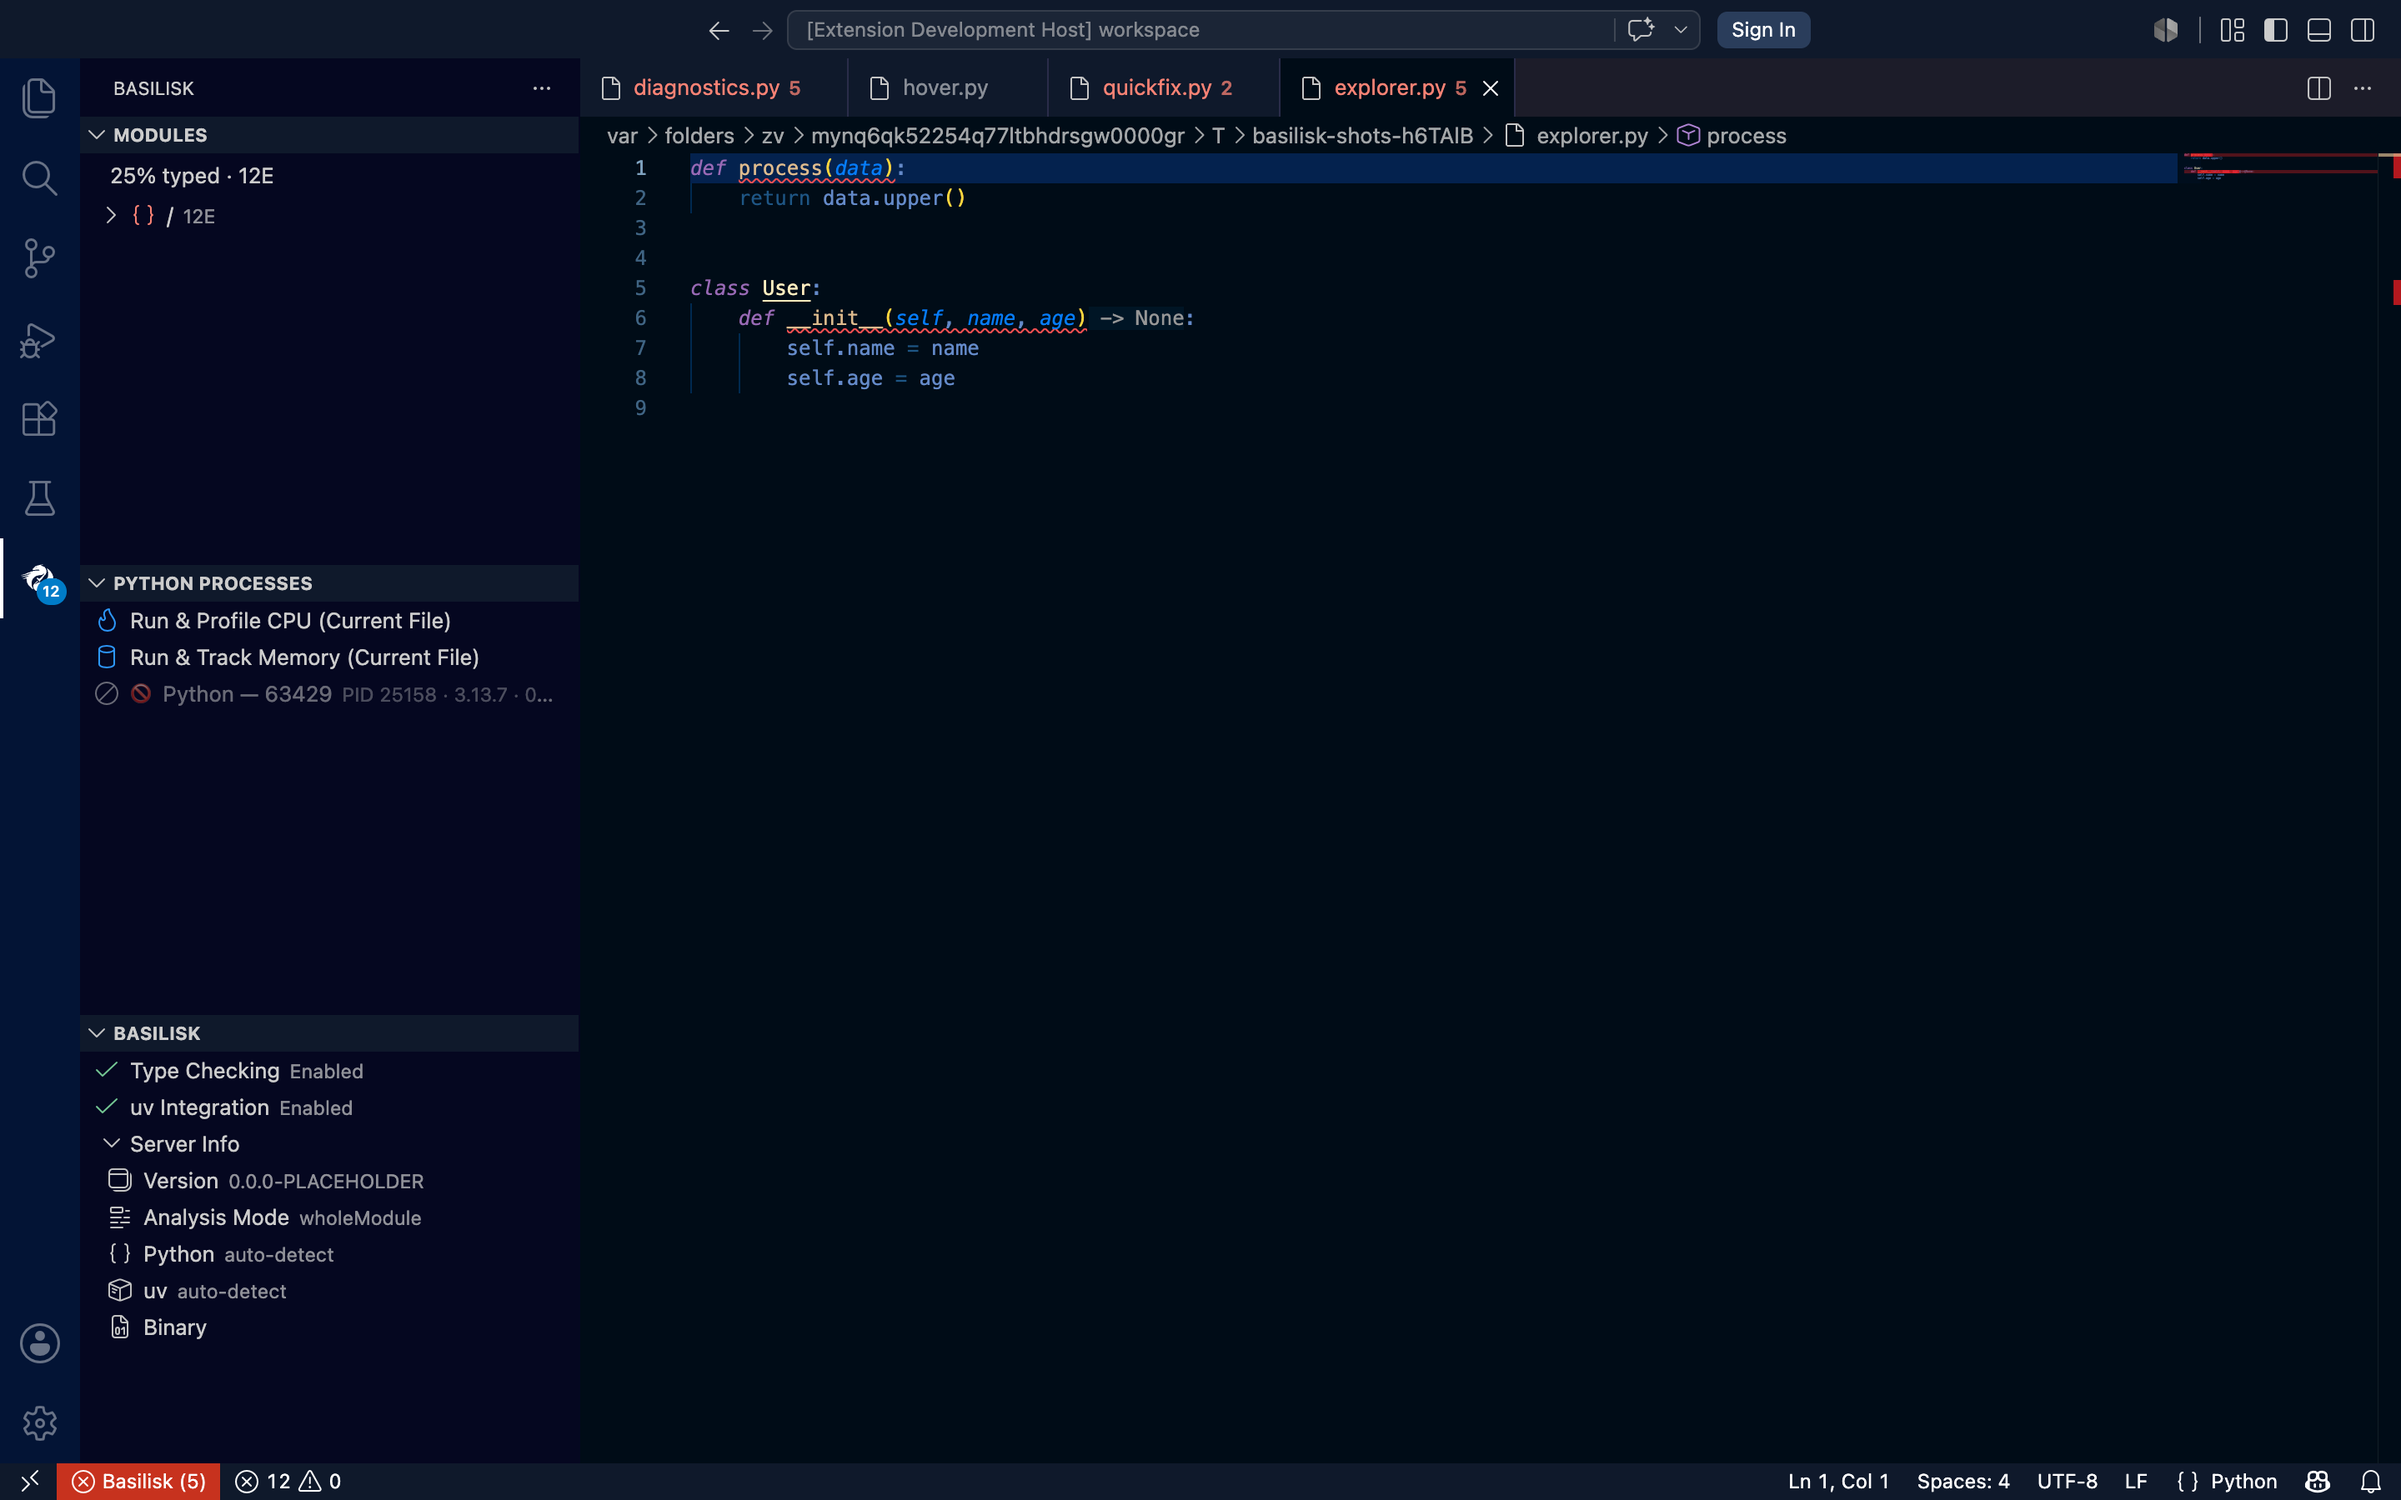
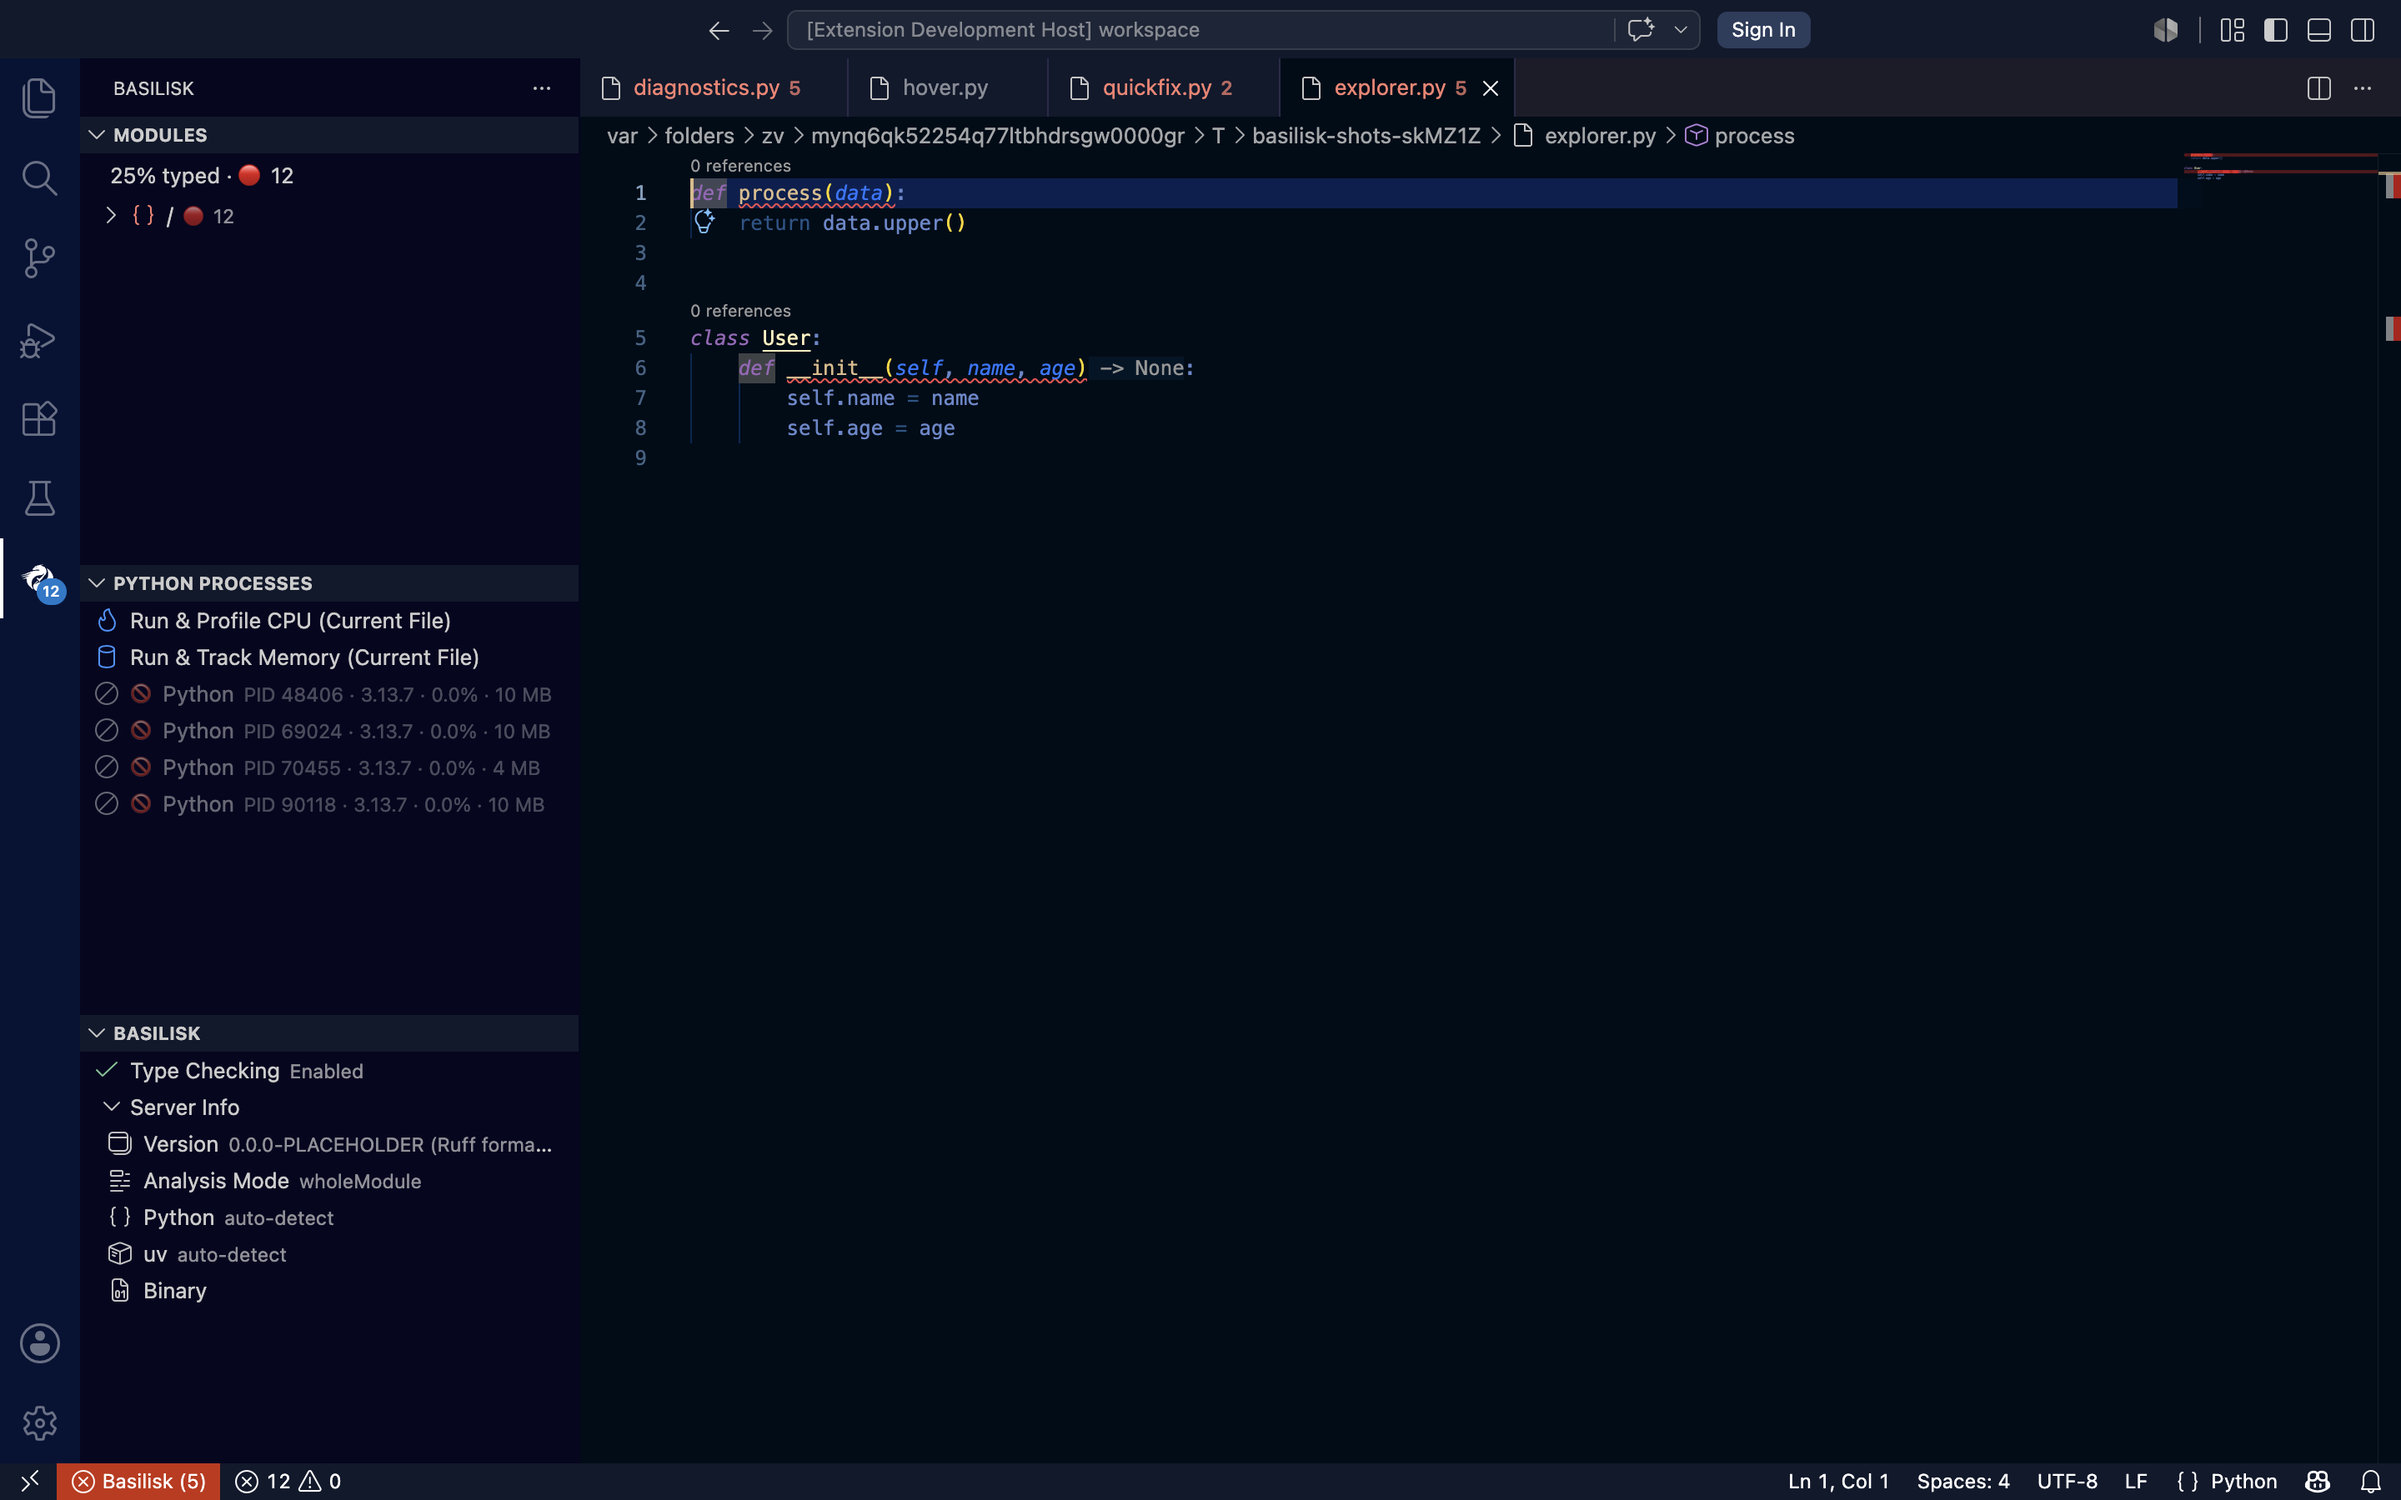
fix(vsix): render module tallies as 🔴 n / 🟠 n glyphs per [EXTACT-MODULES-COUNT-STYLE] (#236)
diagnosticTally emitted the forbidden lettered `nE nW` form on all three
Modules-panel surfaces (module rows, folder/package rollups, workspace
header message). Switch it to the spec-mandated coloured glyph tally,
omitting zero severities. Adds a regression e2e test, flips the five
existing assertions that encoded the old format, restores the regressed
[EXTACT-MODULES-TREE-STRUCTURE] spec bullet, and regenerates
vscode-module-explorer.png via the sanctioned screenshot pipeline.

diff --git a/vscode-extension/src/module-explorer.ts b/vscode-extension/src/module-explorer.ts
@@ -239,8 +239,6 @@ function coverageColor(percent: number): vscode.ThemeColor {
 }
 
 // [EXTACT-MODULES-COUNT-STYLE] is the diagnostic-tally surface for module rows.
-// NOTE (conformance): the spec mandates coloured glyphs `🔴 n` / `🟠 n` here and
-// "never `2E 3W`"; this renders `nE nW`. See the audit deviation for this section.
 /** Module row description: coverage bar + % + error/warning counts + adopted badge. */
 function moduleDescription(module: ModuleNode): string {
   // Type Checking disabled (#119): the server serves no grading, so the row is
@@ -264,11 +262,12 @@ function moduleTooltip(module: ModuleNode): string {
   ].filter(Boolean).join("\n");
 }
 
-/** Implements [EXTACT-MODULES-COUNT-STYLE]: `nE nW`, or "" when clean. */
+/** Implements [EXTACT-MODULES-COUNT-STYLE]: coloured glyphs `🔴 n` (errors) /
+ *  `🟠 n` (warnings) — never `nE nW`; a zero severity is omitted, or "" when clean. */
 function diagnosticTally(errors: number, warnings: number): string {
   const issues: string[] = [];
-  if (errors > 0) { issues.push(`${errors}E`); }
-  if (warnings > 0) { issues.push(`${warnings}W`); }
+  if (errors > 0) { issues.push(`🔴 ${errors}`); }
+  if (warnings > 0) { issues.push(`🟠 ${warnings}`); }
   return issues.join(" ");
 }
 
@@ -287,9 +286,9 @@ function packageIconColor(node: PackageTreeNode): vscode.ThemeColor | undefined 
 }
 
 /**
- * Folder/package row description: the subtree's rolled-up `nE nW` so problems
- * are visible without drilling in (#149). A package (`__init__.py`) also keeps
- * its own coverage bar.
+ * Folder/package row description: the subtree's rolled-up count-style tally
+ * ([EXTACT-MODULES-COUNT-STYLE]) so problems are visible without drilling in
+ * (#149). A package (`__init__.py`) also keeps its own coverage bar.
  */
 function packageDescription(node: PackageTreeNode): string {
   const coverage = node.module?.coveragePercent;
@@ -318,7 +317,6 @@ function packageTooltip(node: PackageTreeNode): string {
  * Implements [EXTACT-MODULES-HEADER] (`treeView.message`: "73% typed · …").
  * [EXTACT-HEALTH-HEADER] An empty workspace (no Python files) renders an explicit
  * "No Python files found" — never a misleading 100% for 0/0 symbols (#57).
- * NOTE (conformance): the spec's tally uses `🔴 n` / `🟠 n` glyphs, not `nE nW`.
  */
 export function workspaceHealthMessage(stats: HealthStats | undefined): string {
   if (stats === undefined) { return ""; }

diff --git a/vscode-extension/src/test/suite/activity-panel.test.ts b/vscode-extension/src/test/suite/activity-panel.test.ts
@@ -711,7 +711,7 @@ suite("Modules panel health chrome [EXTACT-MODULES-HEADER]", function () {
     const message = workspaceHealthMessage(measuredStats);
     assert.ok(message.includes("85%"), `expected the coverage percentage, got: "${message}"`);
     assert.ok(
-      message.includes("2E") && message.includes("3W"),
+      message.includes("🔴 2") && message.includes("🟠 3"),
       `expected error/warning tallies, got: "${message}"`,
     );
   });
@@ -739,9 +739,34 @@ suite("Modules panel health chrome [EXTACT-MODULES-HEADER]", function () {
     assert.ok(description.includes("85%"), `expected the coverage percentage, got: "${description}"`);
     assert.ok(description.includes("█"), `expected a coverage bar, got: "${description}"`);
     assert.ok(
-      description.includes("2E") && description.includes("3W"),
+      description.includes("🔴 2") && description.includes("🟠 3"),
       `expected error/warning tallies, got: "${description}"`,
     );
+  });
+
+  // Regression for issue #236 [EXTACT-MODULES-COUNT-STYLE]: inline tallies on
+  // every plain-text surface (header message, module row description) must
+  // render the coloured Unicode glyphs `🔴 n` (errors) / `🟠 n` (warnings) —
+  // never the lettered `nE nW` form the spec forbids.
+  test("tallies render count-style glyphs 🔴 n / 🟠 n, never nE nW letters (#236)", function () {
+    const row = new ModuleTreeItem({
+      name: "myapp.api", path: "/ws/myapp/api.py", kind: "module", symbols: [],
+      coveragePercent: 85, errors: 2, warnings: 3, adopted: false,
+    });
+    const surfaces = [
+      ["header", workspaceHealthMessage(measuredStats)],
+      ["module row", String(row.description)],
+    ] as const;
+    for (const [surface, text] of surfaces) {
+      assert.ok(
+        text.includes("🔴 2") && text.includes("🟠 3"),
+        `${surface} tally must use the 🔴 n / 🟠 n glyph style, got: "${text}"`,
+      );
+      assert.ok(
+        !text.includes("2E") && !text.includes("3W"),
+        `${surface} tally must never use nE nW letters, got: "${text}"`,
+      );
+    }
   });
 
   // Tests [EXTACT-MODULES-MODULE-ROW] — the row's `[adopted]` badge.

diff --git a/vscode-extension/src/test/suite/module-explorer-tree.test.ts b/vscode-extension/src/test/suite/module-explorer-tree.test.ts
@@ -311,8 +311,8 @@ suite("Module Explorer tree structure [EXTACT-MODULES-TREE-STRUCTURE]", () => {
       const app = roots.find((row) => labelOf(row) === "app");
       assert.ok(app instanceof PackageTreeItem, "'app' is a package container");
       const appDesc = String(app.description);
-      assert.ok(appDesc.includes("10E"), `'app' must roll up all descendant errors (9+1), got: ${appDesc}`);
-      assert.ok(appDesc.includes("2W"), `'app' must roll up descendant warnings, got: ${appDesc}`);
+      assert.ok(appDesc.includes("🔴 10"), `'app' must roll up all descendant errors (9+1), got: ${appDesc}`);
+      assert.ok(appDesc.includes("🟠 2"), `'app' must roll up descendant warnings, got: ${appDesc}`);
       assert.strictEqual(app.node.errors, 10, "rolled-up error count on the node");
       assert.strictEqual(app.node.warnings, 2, "rolled-up warning count on the node");
 
@@ -321,7 +321,7 @@ suite("Module Explorer tree structure [EXTACT-MODULES-TREE-STRUCTURE]", () => {
       const api = appChildren.find((row) => labelOf(row) === "api");
       assert.ok(api instanceof PackageTreeItem, "'api' is a synthesised folder");
       assert.ok(
-        String(api.description).includes("9E"),
+        String(api.description).includes("🔴 9"),
         `'api' folder must surface auth's 9 errors without drilling in, got: ${String(api.description)}`,
       );
 
@@ -329,7 +329,7 @@ suite("Module Explorer tree structure [EXTACT-MODULES-TREE-STRUCTURE]", () => {
       const util = roots.find((row) => labelOf(row) === "util");
       assert.ok(util instanceof ModuleTreeItem, "'util' is a clean leaf module");
       assert.ok(
-        !String(util.description).includes("E") && !String(util.description).includes("W"),
+        !String(util.description).includes("🔴") && !String(util.description).includes("🟠"),
         `clean module must show no error/warning tally, got: ${String(util.description)}`,
       );
     } finally {

diff --git a/docs/specs/EXTENSION-ACTIVITY-PANEL-SPEC.md b/docs/specs/EXTENSION-ACTIVITY-PANEL-SPEC.md
@@ -310,7 +310,8 @@ name into path segments and threading it into a node trie
   modules, each alphabetical by segment. The flat-view sort picker does not
   apply in tree view ([EXTACT-MODULES-TOOLBAR](#EXTACT-MODULES-TOOLBAR)).
 - **Diagnostics roll up onto containers.** Each folder/package row shows the
-  total `nE nW` rolled up across its whole subtree and tints its icon red (any
+  total in [count style](#EXTACT-MODULES-COUNT-STYLE) (`🔴 n  🟠 n`) rolled up
+  across its whole subtree and tints its icon red (any
   descendant error) / yellow (any descendant warning), so a branch hiding errors
   is visible at a glance without expanding it. Coverage % stays per-module (the
   flat list carries no per-module symbol counts to weight a folder rollup).
